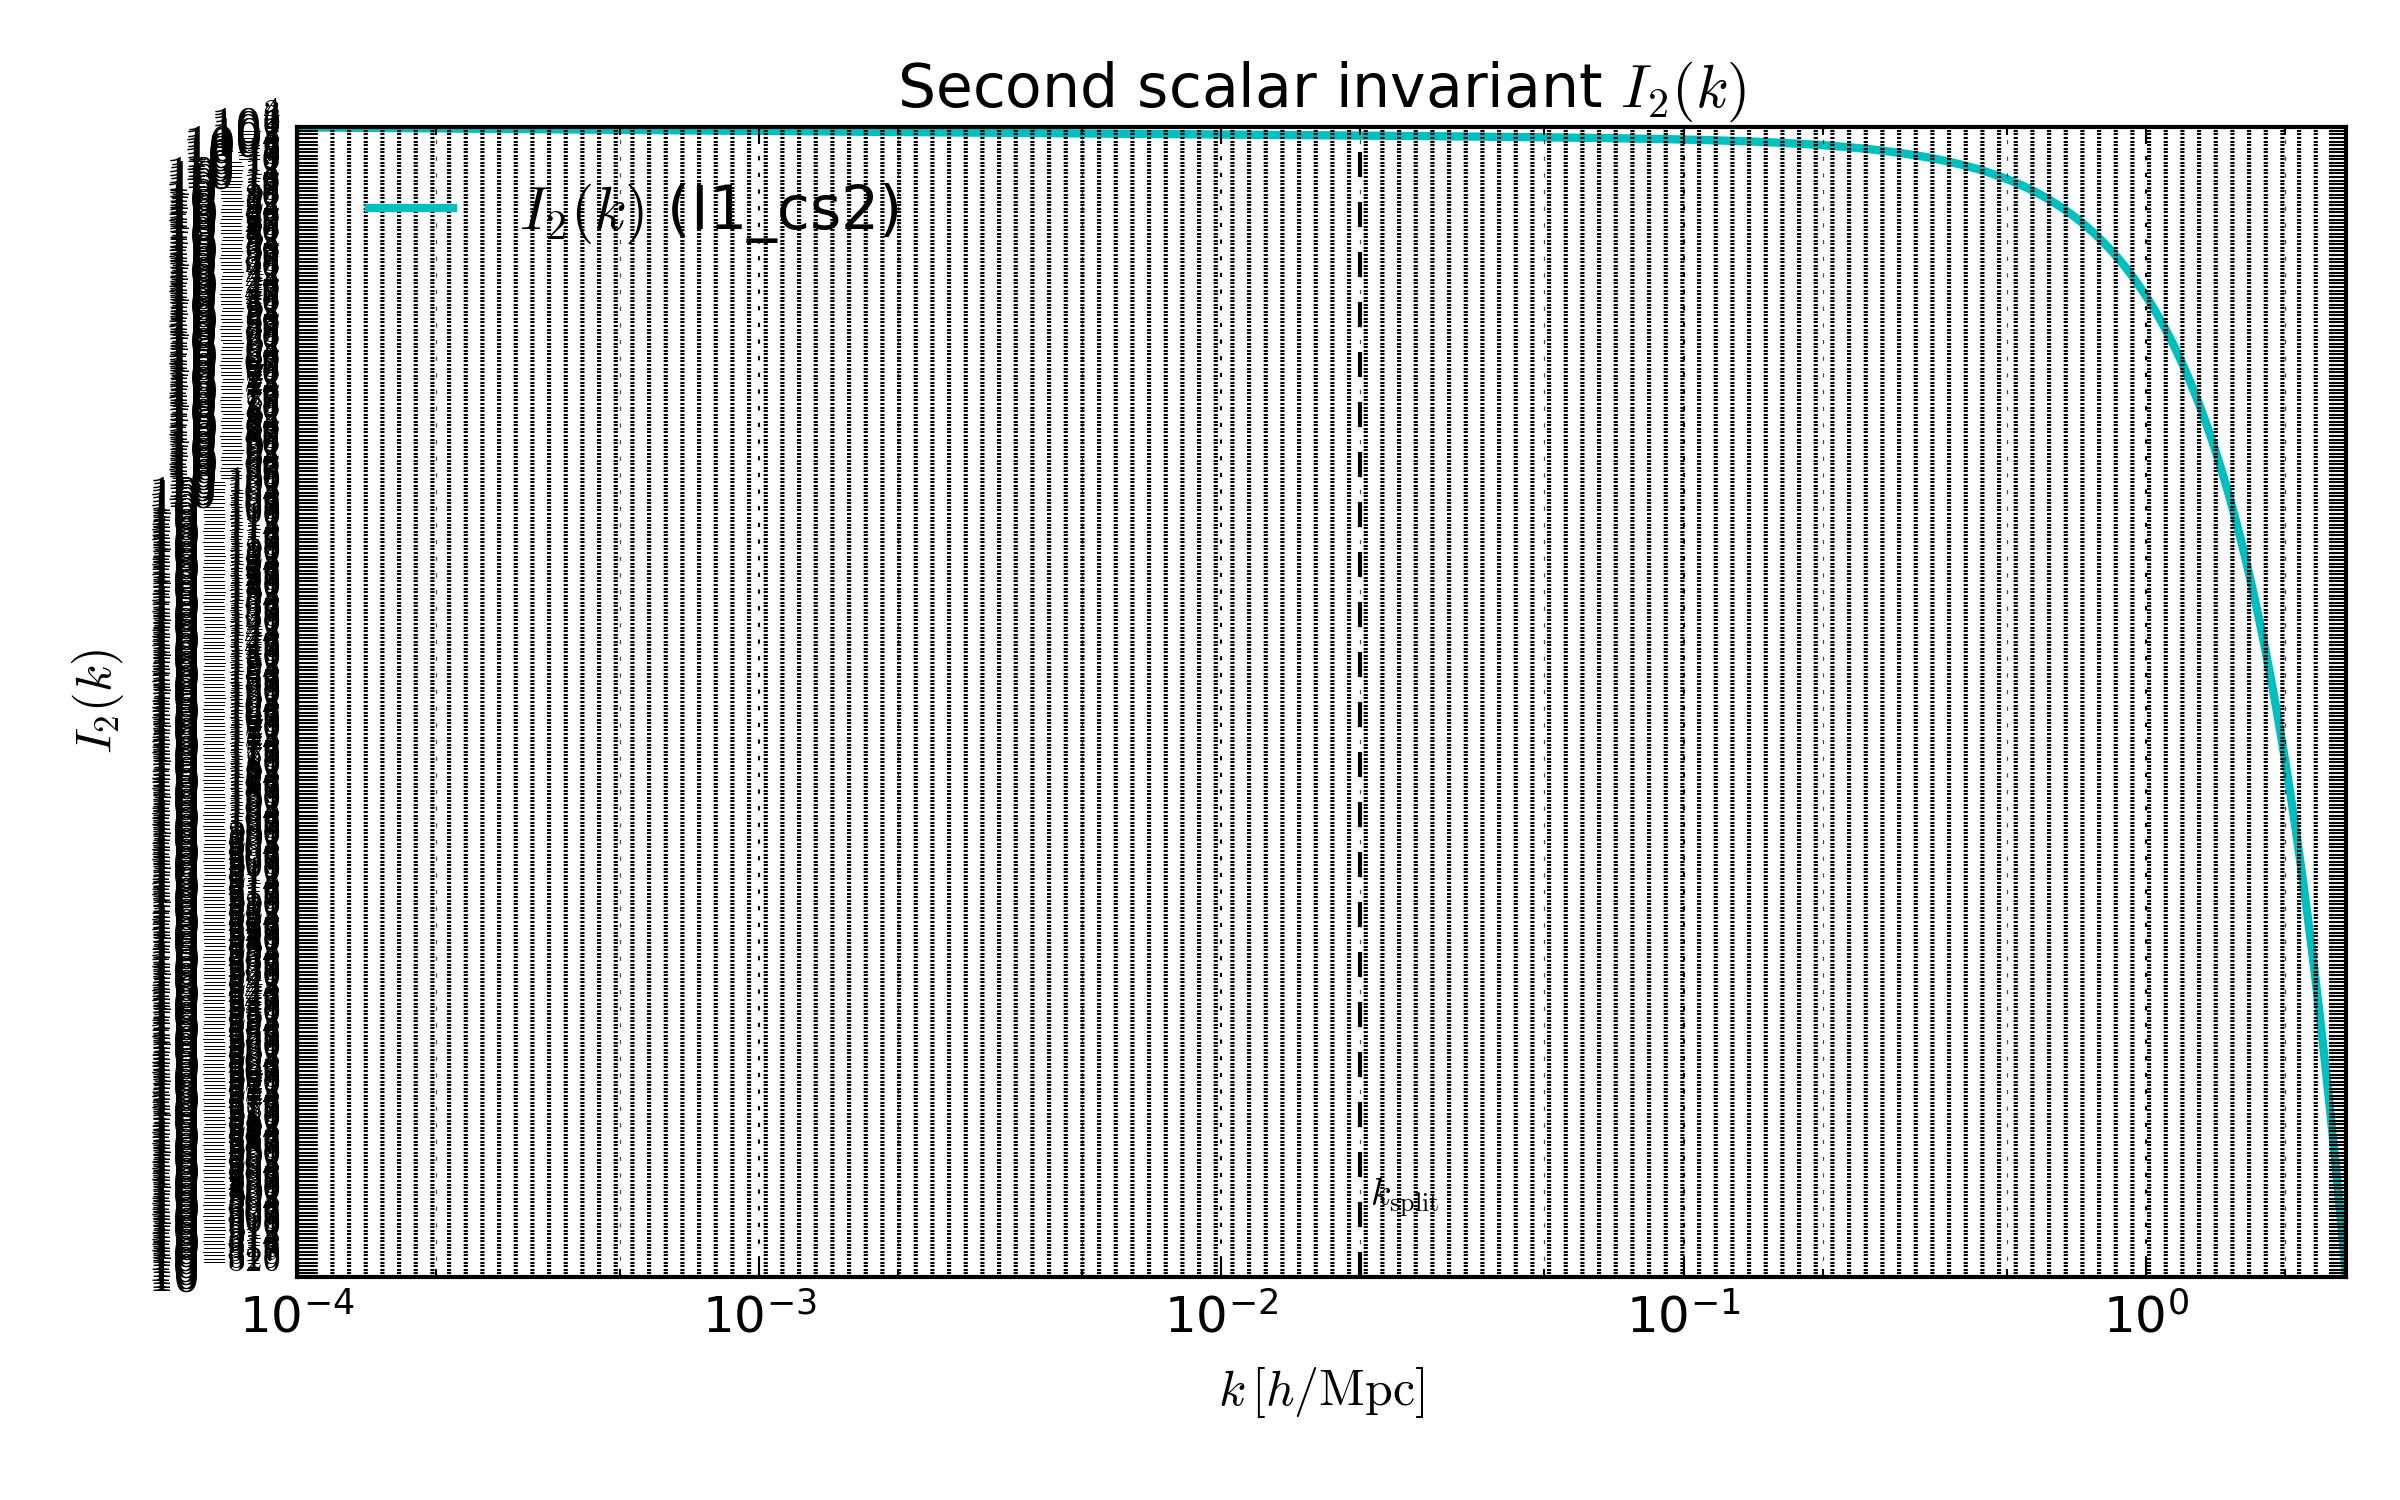
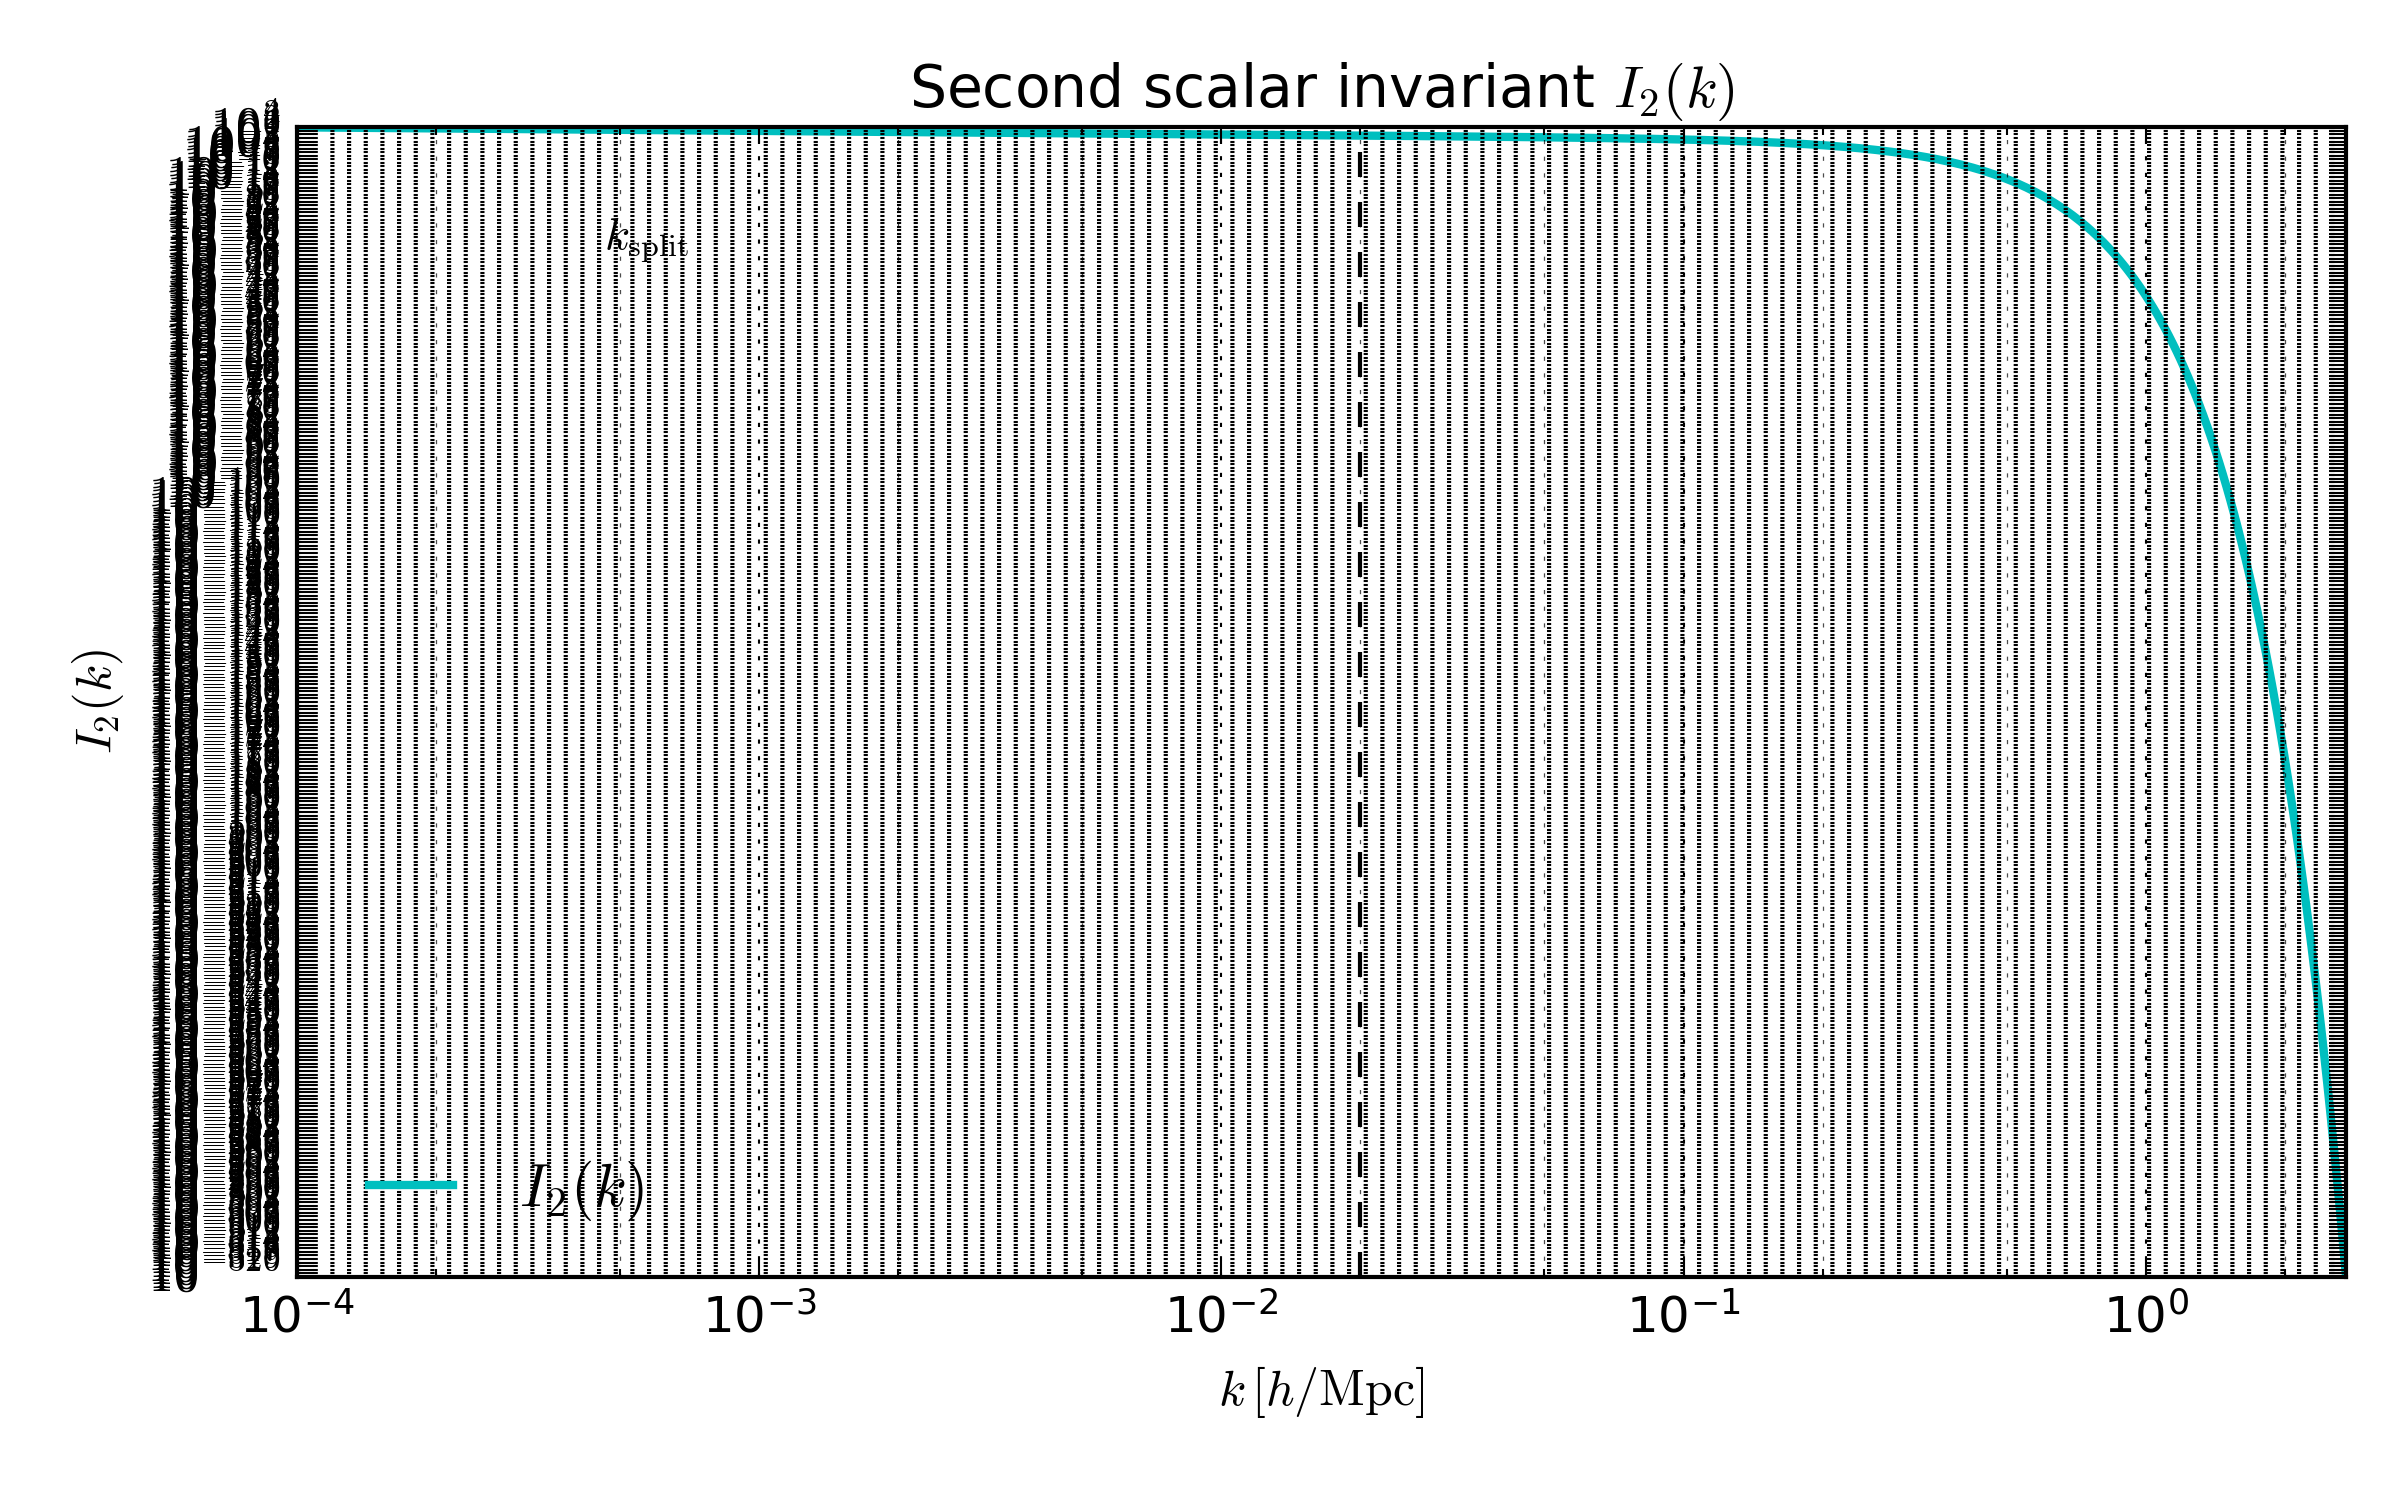
fix(viz): solve y-axis overlapping and missing labels for CH07 figures 04, 05, 07

diff --git a/zz-scripts/chapter07/plot_fig07_invariant_i2.py b/zz-scripts/chapter07/plot_fig07_invariant_i2.py
@@ -208,18 +208,19 @@ def plot_invariant_i2(
     plt.style.use("classic")
     fig, ax = plt.subplots(figsize=(8, 5))
 
-    ax.loglog(k_vals, i2_vals, color="C3", lw=2, label=rf"$I_2(k)$ ({col})")
+    ax.loglog(k_vals, i2_vals, color="C3", lw=2, label=r"$I_2(k)$")
 
     # Repère k_split
     ax.axvline(k_split, ls="--", color="k", lw=1)
     y_text = 10.0 ** (pmin + 0.05 * (pmax - pmin))
     ax.text(
-        k_split * 1.05,
-        y_text,
+        0.15,
+        0.88,
         r"$k_{\rm split}$",
+        transform=ax.transAxes,
         ha="left",
         va="bottom",
-        fontsize=9,
+        fontsize=11,
     )
 
     # Limites
@@ -227,9 +228,9 @@ def plot_invariant_i2(
     ax.set_ylim(10.0**pmin, 10.0**pmax)
 
     # Labels / titre
-    ax.set_xlabel(r"$k\,[h/\mathrm{Mpc}]$")
-    ax.set_ylabel(r"$I_2(k)$")
-    ax.set_title("Second scalar invariant $I_2(k)$")
+    ax.set_xlabel(r"$k\,[h/\mathrm{Mpc}]$", fontsize=12)
+    ax.set_ylabel(r"$I_2(k)$", fontsize=12)
+    ax.set_title("Second scalar invariant $I_2(k)$", fontsize=14)
 
     # Grille + ticks
     ax.grid(which="major", ls=":", lw=0.5)
@@ -238,7 +239,7 @@ def plot_invariant_i2(
     ax.xaxis.set_major_locator(LogLocator(base=10))
     ax.xaxis.set_minor_locator(LogLocator(base=10, subs=(2, 5)))
 
-    ax.yaxis.set_major_locator(LogLocator(base=10))
+    ax.yaxis.set_major_locator(LogLocator(base=10.0, numticks=6))
     ax.yaxis.set_minor_locator(LogLocator(base=10, subs=(2, 5)))
     ax.yaxis.set_major_formatter(FuncFormatter(format_pow10))
     ax.set_yticks(yticks)

diff --git a/zz-scripts/chapter07/plot_fig05_ddelta_phi_vs_k.py b/zz-scripts/chapter07/plot_fig05_ddelta_phi_vs_k.py
@@ -208,12 +208,13 @@ def plot_ddelta_phi_vs_k(
     ymax_plot = 10.0 ** y_max_dec
     y_text = 10.0 ** (y_min_dec + 0.05 * (y_max_dec - y_min_dec))
     ax.text(
-        k_split * 1.05,
-        y_text,
+        0.15,
+        0.85,
         r"$k_{\rm split}$",
+        transform=ax.transAxes,
         ha="left",
         va="bottom",
-        fontsize=9,
+        fontsize=11,
     )
 
     # Limites
@@ -221,9 +222,9 @@ def plot_ddelta_phi_vs_k(
     ax.set_ylim(ymin_plot, ymax_plot)
 
     # Labels
-    ax.set_xlabel(r"$k\,[h/\mathrm{Mpc}]$")
-    ax.set_ylabel(r"$|\partial_k(\delta\phi/\phi)|$")
-    ax.set_title(r"Derivative of $\delta\phi/\phi$ versus $k$")
+    ax.set_xlabel(r"$k\,[h/\mathrm{Mpc}]$", fontsize=12)
+    ax.set_ylabel(r"$|\partial_k(\delta\phi/\phi)|$", fontsize=12)
+    ax.set_title(r"Derivative of $\delta\phi/\phi$ versus $k$", fontsize=14)
 
     # Grille et ticks
     ax.grid(which="major", ls=":", lw=0.5)
@@ -232,7 +233,7 @@ def plot_ddelta_phi_vs_k(
     ax.xaxis.set_major_locator(LogLocator(base=10))
     ax.xaxis.set_minor_locator(LogLocator(base=10, subs=(2, 5)))
 
-    ax.yaxis.set_major_locator(LogLocator(base=10))
+    ax.yaxis.set_major_locator(LogLocator(base=10.0, numticks=6))
     ax.yaxis.set_minor_locator(LogLocator(base=10, subs=(2, 5)))
     ax.yaxis.set_major_formatter(FuncFormatter(format_pow10))
     ax.set_yticks(yticks)

diff --git a/zz-scripts/chapter07/plot_fig04_dcs2_vs_k.py b/zz-scripts/chapter07/plot_fig04_dcs2_vs_k.py
@@ -187,10 +187,16 @@ def plot_dcs2_vs_k(
     fig, ax = plt.subplots(figsize=(8, 5), dpi=dpi)
 
     # Tracé de |∂ₖ c_s²|
-    ax.loglog(k_vals, np.abs(dcs2), color="C1", lw=2, label=r"$|\partial_k\,c_s^2|$")
+    ax.loglog(
+        k_vals,
+        np.abs(dcs2),
+        color="C1",
+        lw=2,
+        label=r"$\partial_k c_s^2$",
+    )
 
     # Ligne verticale k_split
-    ax.axvline(k_split, color="k", ls="--", lw=1)
+    ax.axvline(k_split, color="k", ls="--", lw=1, label=r"$k_{\rm split}$")
     ax.text(
         k_split,
         0.85,
@@ -203,7 +209,7 @@ def plot_dcs2_vs_k(
     )
 
     # Labels et titre
-    ax.set_xlabel(r"$k\,[h/\mathrm{Mpc}]$")
+    ax.set_xlabel(r"$k$ [h/Mpc]")
     ax.set_ylabel(r"$|\partial_k\,c_s^2|$")
     ax.set_title(r"Smoothed derivative $\partial_k\,c_s^2(k)$")
 
@@ -232,7 +238,7 @@ def plot_dcs2_vs_k(
         ymin = 1e-8
     ax.set_ylim(max(1e-8, ymin), ymax)
 
-    ax.legend(loc="upper right", frameon=False)
+    ax.legend(loc="best", frameon=False)
 
     fig.subplots_adjust(left=0.12, right=0.98, top=0.90, bottom=0.12)
     safe_save(out_png, dpi=dpi)
